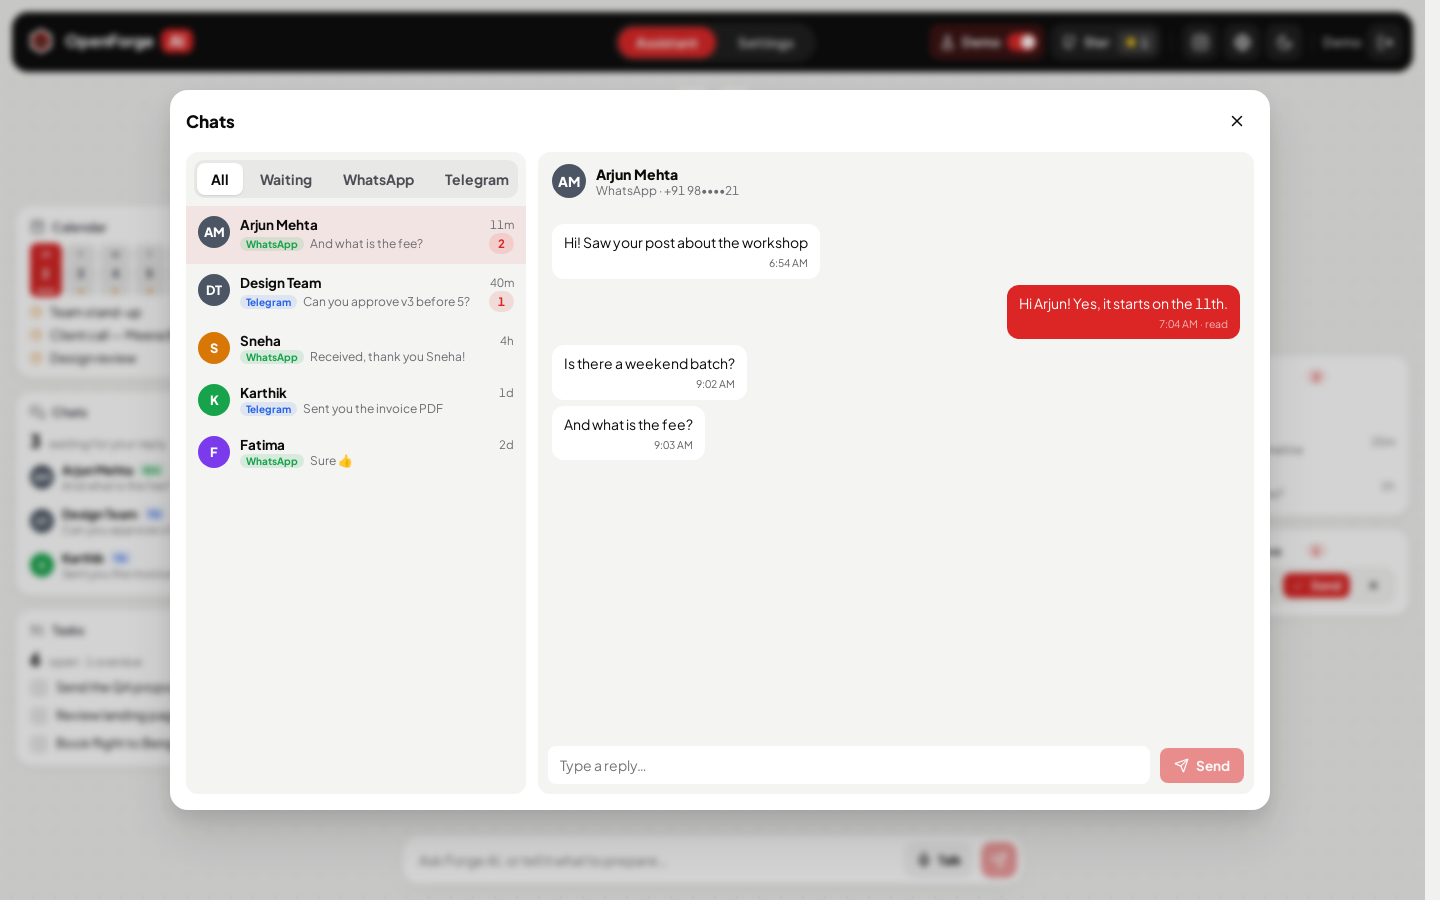
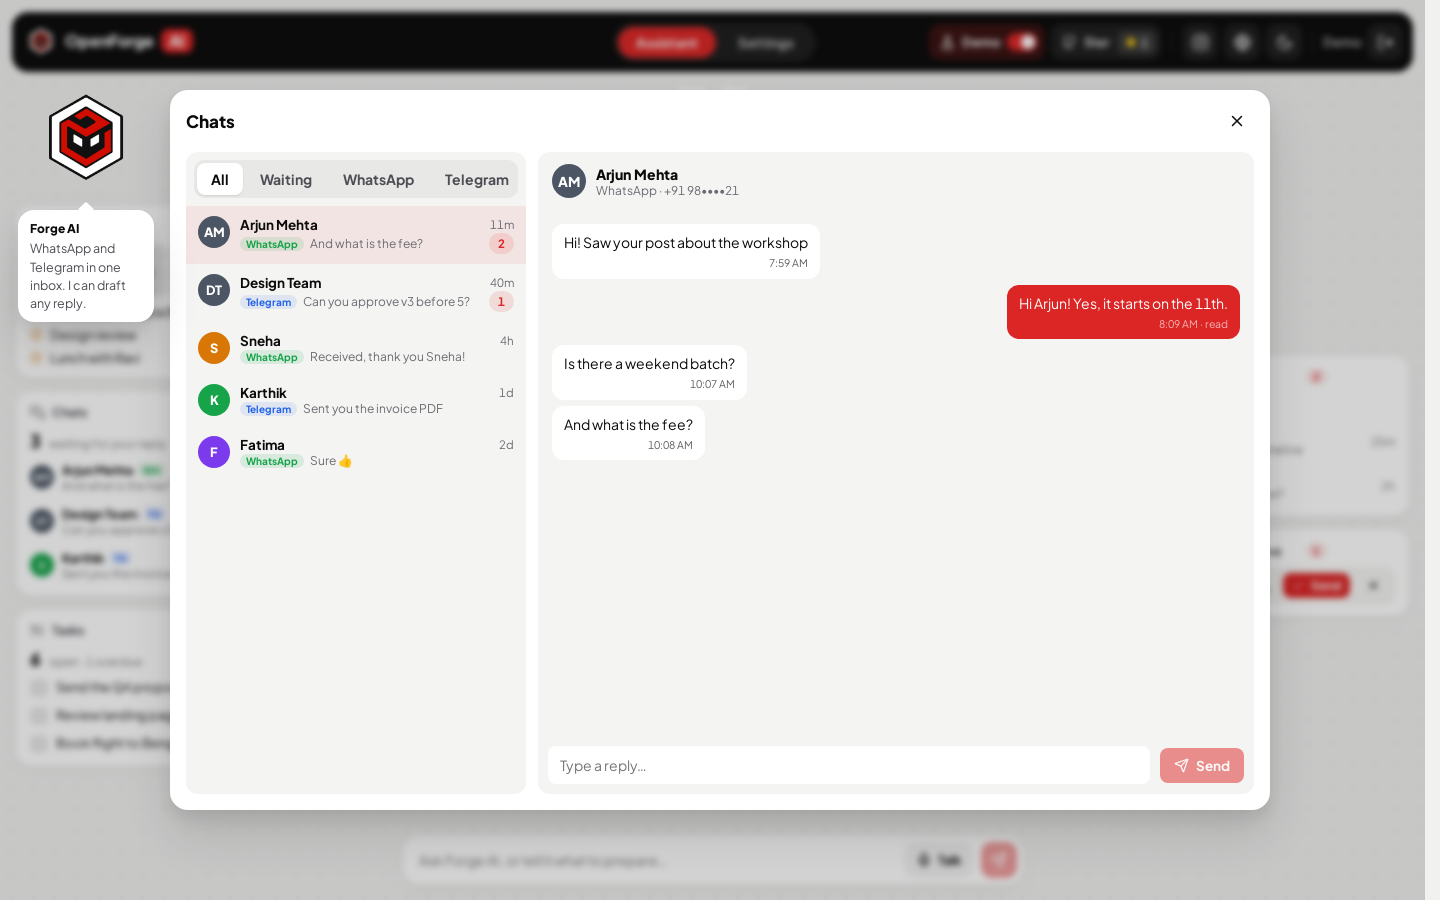
Forge AI: blink-only GIF floated by CSS; appears beside open panels
- The logo GIF now only blinks (30 KB); the float is the CSS float-bob animation.
- Opening Calendar, Chats, Tasks, Mail or Drafts moves Forge AI from the centre
  to the side of the panel with a one-line note on what the panel is for
  (logo only on narrower screens, hidden on phones).
- Screenshots retaken.

Changed region(s): [[0.0, 0.0933, 0.125, 0.4044]]

diff --git a/web/src/components/forge-guide.css b/web/src/components/forge-guide.css
@@ -1,0 +1,39 @@
+/* Forge AI beside an open panel. The panel (.sheet) is centred, min(1100px, 100%)
+   wide inside a 20px scrim gutter, so its left edge is 50% - min(550px, 50% - 20px).
+   The guide sits in the space to the left of that edge, near the panel's top. */
+.forge-guide {
+  position: fixed; z-index: 51; pointer-events: none;
+  width: 136px; left: calc(50% - 550px - 152px);
+  top: calc(50% - min(360px, 50vh - 20px) + 12px);
+  display: flex; flex-direction: column; align-items: center; gap: 12px;
+  animation: forge-guide-in .45s cubic-bezier(.16,1,.3,1) both;
+}
+.forge-guide-logo { width: 96px; height: 96px; }
+.forge-guide-logo img { width: 100%; height: 100%; display: block; }
+.forge-guide-bubble {
+  position: relative; background: var(--fc-card); color: var(--fc-text-secondary);
+  border-radius: 16px; padding: 10px 12px; box-shadow: var(--fc-shadow-lg);
+  font-size: 12.5px; line-height: 1.45; text-align: left;
+}
+.forge-guide-bubble strong { display: block; color: var(--fc-text); font-size: 12px; font-weight: 800; margin-bottom: 2px; }
+/* the bubble's pointer, up towards the logo */
+.forge-guide-bubble::before {
+  content: ''; position: absolute; top: -6px; left: 50%; width: 12px; height: 12px;
+  background: var(--fc-card); transform: translateX(-50%) rotate(45deg); border-radius: 2px;
+}
+/* Arrives from the centre of the office, where it was standing. */
+@keyframes forge-guide-in { from { opacity: 0; transform: translateX(120px) scale(.85); } to { opacity: 1; transform: none; } }
+
+/* Not enough room beside the panel for the note: just the logo, smaller. */
+@media (max-width: 1419px) {
+  .forge-guide { width: 56px; left: calc(50% - 550px - 64px); }
+  .forge-guide-logo { width: 52px; height: 52px; }
+  .forge-guide-bubble { display: none; }
+}
+/* No room at all beside the panel. */
+@media (max-width: 1239px) { .forge-guide { display: none; } }
+
+/* While a panel is open Forge AI is beside it, not in the centre. */
+.bot.away { opacity: 0; transition: opacity .2s; }
+
+@media (prefers-reduced-motion: reduce) { .forge-guide { animation: none; } }

diff --git a/web/src/pages/Sheets.jsx b/web/src/pages/Sheets.jsx
@@ -3,6 +3,7 @@ import { useEffect, useMemo, useRef, useState } from 'react';
 import { Loader2, Plus, Check, X, ChevronLeft, ChevronRight, Send, MessageSquare, Mail, CalendarPlus, ListPlus, ListChecks, Search, Trash2, ExternalLink, Reply } from 'lucide-react';
 import { useApi } from '../lib/apiContext';
 import { Modal, Avatar } from '../components/ui.jsx';
+import ForgeAiGuide from '../components/ForgeAiGuide.jsx';
 import { ago, timeOf, todayYmd, ymd, addDays, dayLabel, senderName } from '../lib/util';
 
 const TITLES = { tasks: 'Tasks', calendar: 'Calendar', mail: 'Mail', chats: 'Chats', drafts: 'Drafts to approve' };
@@ -16,6 +17,8 @@ export function Sheet({ sheet, setSheet, data, errs, status, reload, decide }) {
   });
   const notGoogle = ['tasks', 'calendar', 'mail'].includes(view) && errs[view] === 'google';
   return (
+    <>
+    <ForgeAiGuide view={view} />
     <Modal title={TITLES[view] || 'OpenForge AI'} onClose={close} wide>
       <div className="sheet-body" data-testid={`sheet-${view}`}>
         {notGoogle ? <div className="empty">Google isn't connected. <a href="#/settings/google" onClick={close}>Connect it in Settings</a>.</div>
@@ -27,6 +30,7 @@ export function Sheet({ sheet, setSheet, data, errs, status, reload, decide }) {
           : null}
       </div>
     </Modal>
+    </>
   );
 }
 

diff --git a/web/src/components/ForgeAiGuide.jsx b/web/src/components/ForgeAiGuide.jsx
@@ -1,0 +1,23 @@
+// Forge AI beside an open panel (Calendar, Chats, Tasks, Mail, Drafts): the
+// blinking logo leaves the centre of the office, floats next to the panel and
+// says in one line what the panel is for. Styles live in forge-guide.css.
+import './forge-guide.css';
+
+const LINES = {
+  calendar: 'Your week at a glance. Ask me to add or move an event.',
+  chats: 'WhatsApp and Telegram in one inbox. I can draft any reply.',
+  tasks: 'Your Google Tasks board. Tell me what to add or tick off.',
+  mail: 'Your Gmail inbox. Pick an email and I can help you reply.',
+  drafts: 'Everything I have prepared. Nothing goes out until you press Send.',
+};
+
+export default function ForgeAiGuide({ view }) {
+  const line = LINES[view];
+  if (!line) return null;
+  return (
+    <div className="forge-guide" data-testid="forge-guide" aria-hidden="true">
+      <div className="logo-float-anim forge-guide-logo"><img src="/forge-ai-blink.gif" alt="" /></div>
+      <div className="forge-guide-bubble"><strong>Forge AI</strong>{line}</div>
+    </div>
+  );
+}

diff --git a/web/src/components/logo.css b/web/src/components/logo.css
@@ -6,10 +6,8 @@
 @keyframes blink { 0%,38%,46%,100%{transform:scaleY(1);} 41%,43%{transform:scaleY(0.05);} }
 .blink-wrapper { animation: blink 2.5s ease-in-out infinite; transform-box: fill-box; transform-origin: center; }
 
-/* Forge AI in the assistant's centre: a floating, blinking GIF. The logo fills
-   80% of the GIF's width, so the image is drawn at 125% of the box and shifted
-   to keep the logo the size of the box. */
-.bot-gif { position: absolute; width: 125%; height: auto; left: -12.5%; top: -18.75%; max-width: none; pointer-events: none; user-select: none; }
+/* Forge AI in the assistant's centre: a blinking GIF; .logo-float-anim floats it. */
+.bot-gif { width: 100%; height: 100%; display: block; pointer-events: none; user-select: none; }
 
 /* The glow ring behind the floating logo, pulsing while Forge AI is working. */
 .fa-halo { position: absolute; inset: 8%; border-radius: 50%; filter: blur(28px); opacity: .35;

diff --git a/web/src/pages/Office.jsx b/web/src/pages/Office.jsx
@@ -310,9 +310,9 @@ export default function Office({ user }) {
       {rail('right', RIGHT)}
 
       <section className="centre">
-        <div className="bot" data-testid="assistant-logo">
+        <div className={`bot ${sheet ? 'away' : ''}`} data-testid="assistant-logo">
           <div className={`fa-halo ${busy || speaking || live === 'live' ? 'on' : ''}`} />
-          <img className="bot-gif" src="/forge-ai-floating.gif" alt="Forge AI" />
+          <div className="logo-float-anim"><img className="bot-gif" src="/forge-ai-blink.gif" alt="Forge AI" /></div>
         </div>
         <div className="centre-body" data-testid="chatlog">
           {idle && (
